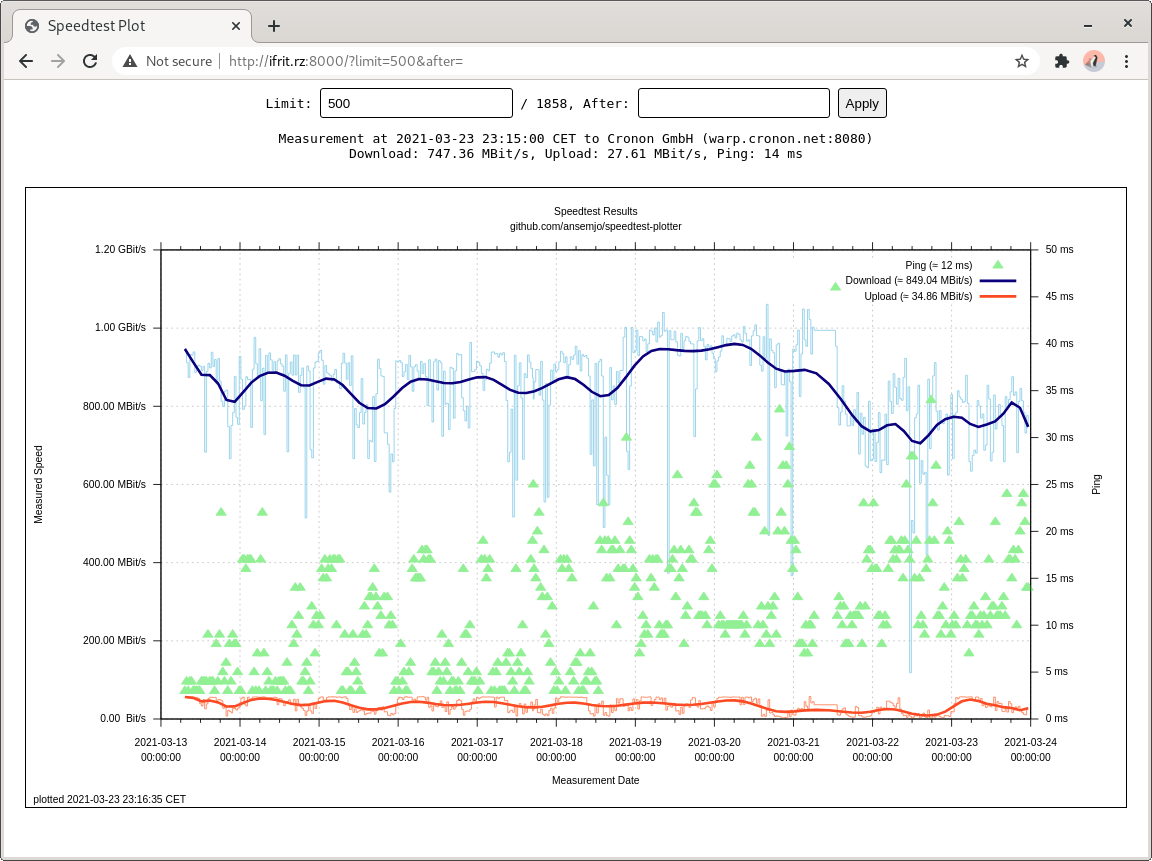
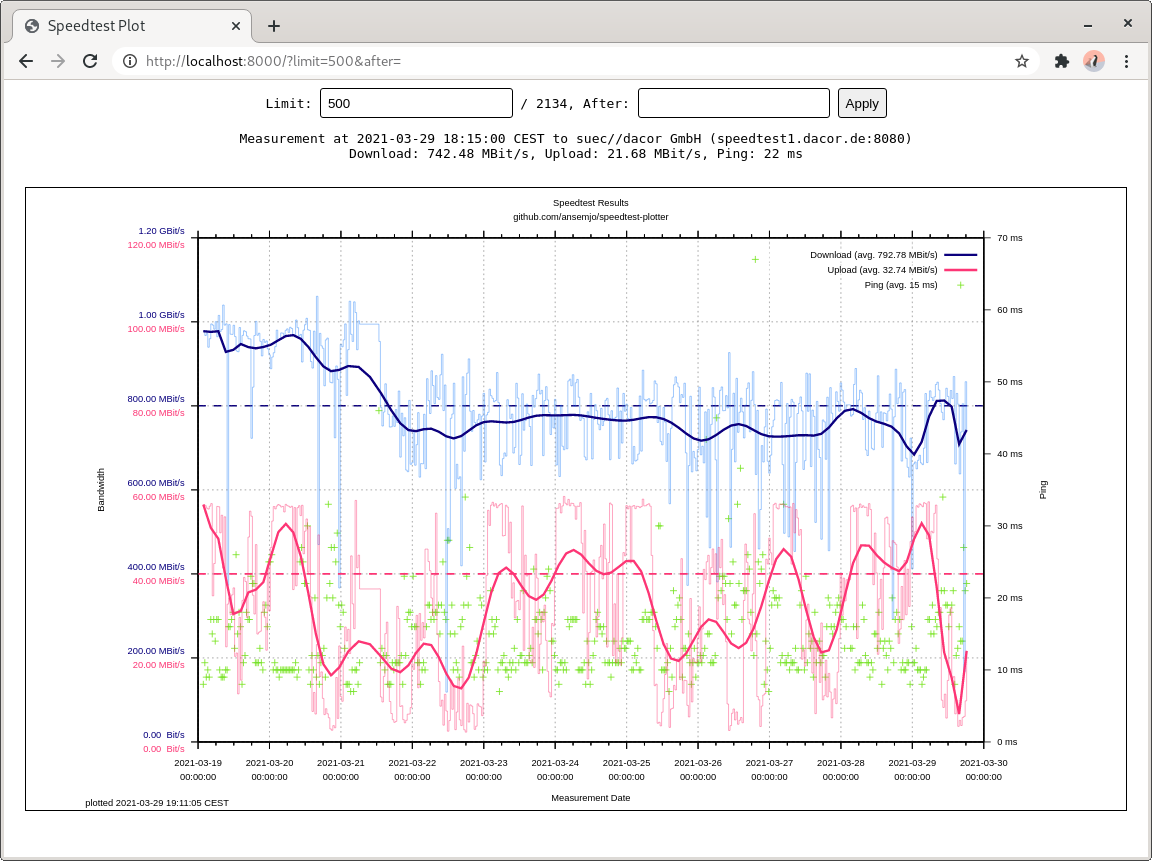
implement different yrange scaling via multiplot
fixes #6

diff --git a/README.md b/README.md
@@ -55,12 +55,20 @@ an entirely custom cron schedule like "four times a day":
 
 To add horizontal dashed lines in the plot (e.g. to mark your expected bandwidths)
 you can use environment variables `MARKER_DOWNLOAD` and `MARKER_UPLOAD`. The values
-are given in `MBit/s`. So for a (very) asymmetric "Gigabit" connection you might use:
+are given in `MBit/s`. 
+
+If you give both a download and an upload marker, the y-ranges will be scaled so
+that the markers lie on the same height. For highly asymmetrical connections this
+makes it easier to see the upload bandwidth. In addition or independently from that
+you can also set a range scaling for the upload plot with `UPLOAD_SCALE`. You can
+also use this so that the markers *do not* lie on the same height and the plot is
+not as chaotic. For example, the above example picture was created with:
 
     docker run -d \
       [...] \
-      -e MARKER_DOWNLOAD=1000 \
-      -e MARKER_DOWNLOAD=50 \
+      -e MARKER_DOWNLOAD=800 \
+      -e MARKER_UPLOAD=40 \
+      -e UPLOAD_SCALE=0.5 \
       ansemjo/speedtest
 
 The webserver is a single-threaded Flask application and pipes the data to gnuplot in a subprocess, which may not be suitable
